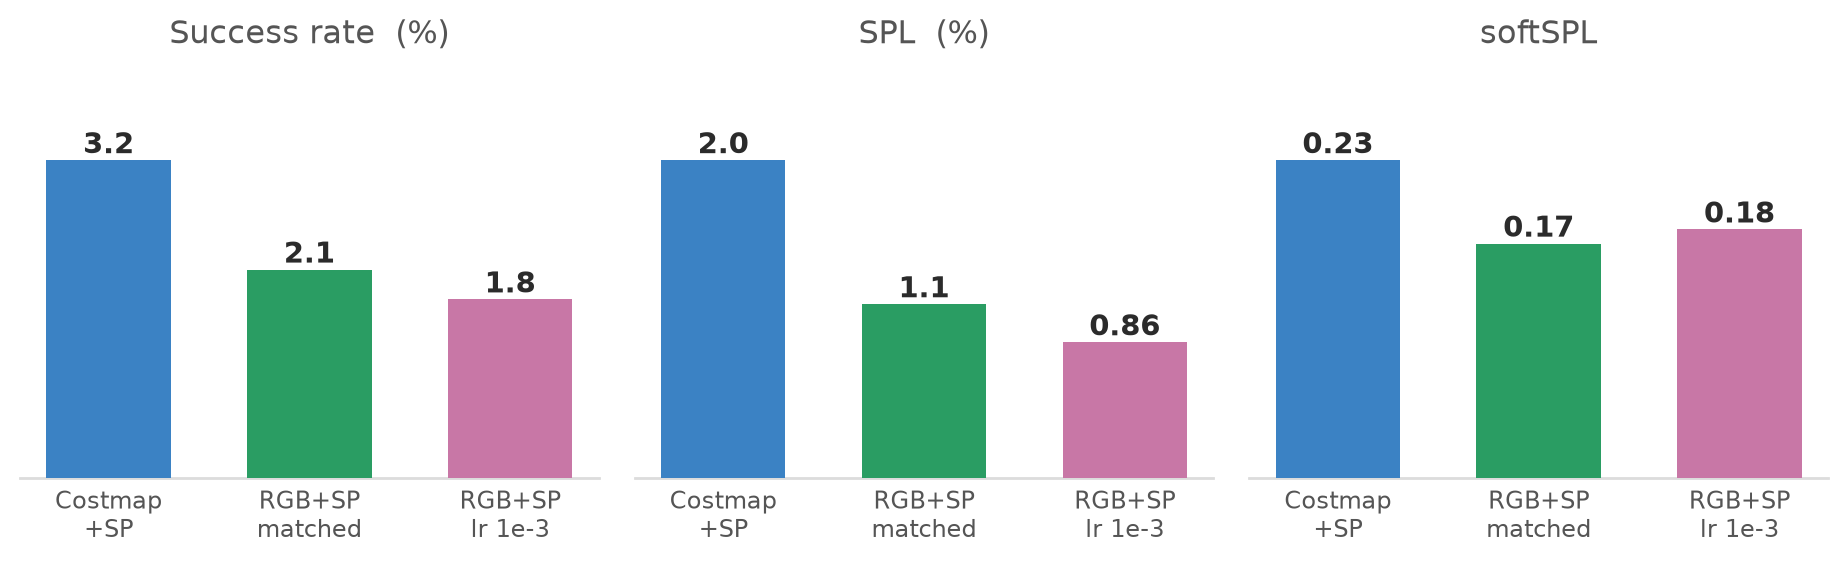
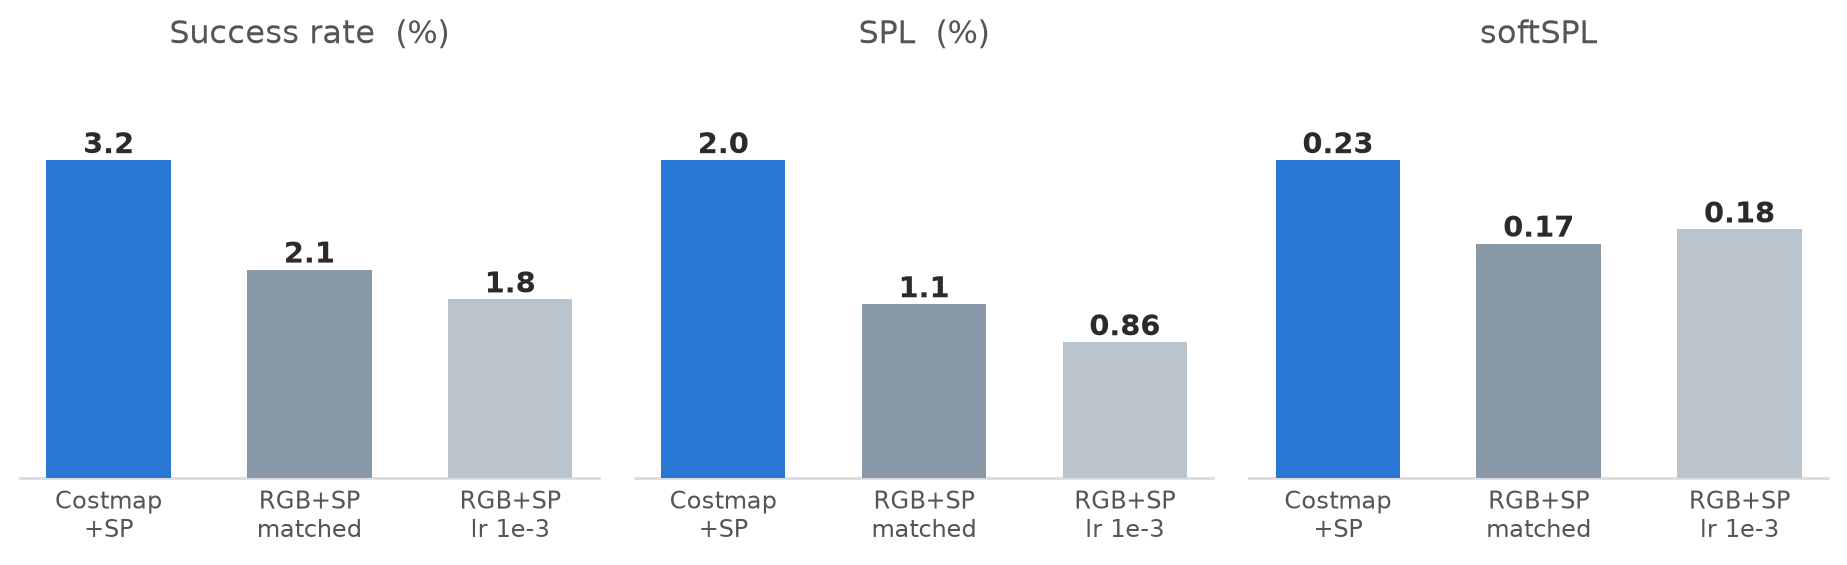
Real 2-channel frame, calm blue+slate charts, drop redundant top-down

diff --git a/docs/index.html b/docs/index.html
@@ -165,16 +165,17 @@
     The fix is a 2-channel transform: <strong>channel 0</strong> = absolute cost (“how far
     is the goal” → the STOP cue), <strong>channel 1</strong> = per-frame contrast-stretched
     cost (“which way is downhill” → the steering cue).</p>
-    <figure class="plot" style="max-width:820px">
-      <img src="figs/two_channel.png" alt="The two costmap channels: absolute vs contrast-stretched">
-      <figcaption>Why two channels. The same visible cost patch (~5.5–7 m to the goal),
-      shown under each channel. <strong>Channel 0</strong> divides by the global maximum, so a
-      real within-frame gradient collapses into ~4% of the range — almost a flat colour, which
-      the from-scratch encoder can’t read (but its absolute level still encodes “how far” → the
-      STOP cue). <strong>Channel 1</strong> stretches that same patch to full contrast, exposing
-      the downhill direction the agent steers along. Together they give the policy both
-      <em>how&nbsp;far</em> and <em>which&nbsp;way</em> — the WayPixel-style signal the
-      shortest-path teacher follows.</figcaption>
+    <figure class="plot" style="max-width:900px">
+      <img src="figs/two_channel.png" alt="One real rollout frame under each costmap channel">
+      <figcaption>Why two channels — one real rollout frame. <strong>Left:</strong> the agent’s
+      view down a hallway toward the goal. <strong>Channel 0</strong> (absolute, cost ÷ 30)
+      collapses the real within-frame gradient into ~4% of the range — nearly a flat colour the
+      from-scratch encoder can’t read, though its absolute level still encodes “how far” (the STOP
+      cue). <strong>Channel 1</strong> stretches that same field to full contrast, exposing the
+      downhill direction — here the open doorway toward the goal reads dark. Together they give the
+      policy both <em>how&nbsp;far</em> and <em>which&nbsp;way</em>: the WayPixel-style signal the
+      shortest-path teacher follows. <span style="color:var(--muted)">(White = pixels past the 5 m
+      depth range, where no cost is computed.)</span></figcaption>
     </figure>
     <h3 class="has-text-centered" style="margin-top:1.8rem">The costmap in action</h3>
     <p class="has-text-centered" style="color:var(--ink2);max-width:660px;margin:.2rem auto 1.2rem">
@@ -187,12 +188,6 @@
       <div class="column is-half"><figure style="margin:0"><img src="figs/rollout_sofa.gif" alt="find the sofa" style="width:100%;display:block;border:1px solid var(--line);border-radius:10px"><figcaption class="has-text-centered" style="margin-top:.45rem;font-size:.9rem">find the <strong>sofa</strong></figcaption></figure></div>
       <div class="column is-half"><figure style="margin:0"><img src="figs/rollout_chair.gif" alt="find the chair" style="width:100%;display:block;border:1px solid var(--line);border-radius:10px"><figcaption class="has-text-centered" style="margin-top:.45rem;font-size:.9rem">find the <strong>chair</strong></figcaption></figure></div>
     </div>
-    <figure style="margin:1.5rem 0 0">
-      <img src="figs/rollout_topdown.png" alt="Top-down trajectory descending the cost-to-goal field" style="width:100%;max-width:540px;display:block;margin:0 auto;border:1px solid var(--line);border-radius:10px">
-      <figcaption class="has-text-centered">Top-down of the bed rollout — the path descends the
-      geodesic cost-to-goal field, from far (yellow) into the goal (dark). Navigating <em>is</em>
-      just descending the costmap.</figcaption>
-    </figure>
   </div>
 </section>
 
